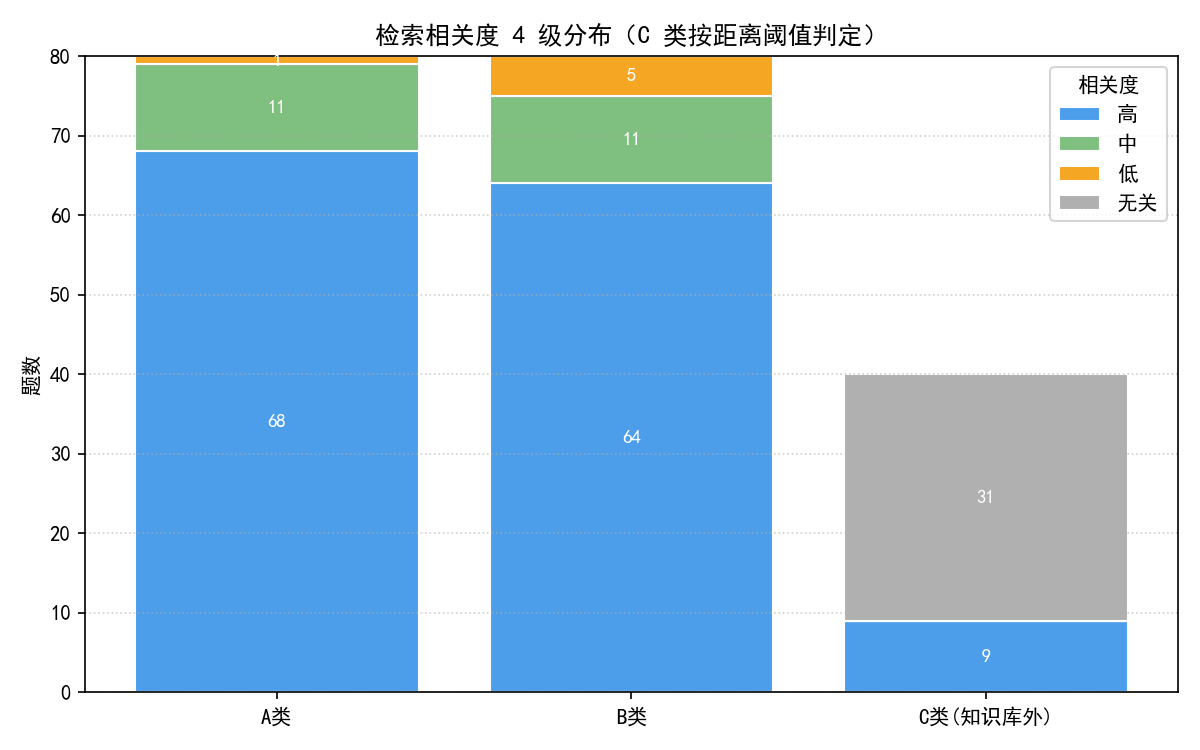
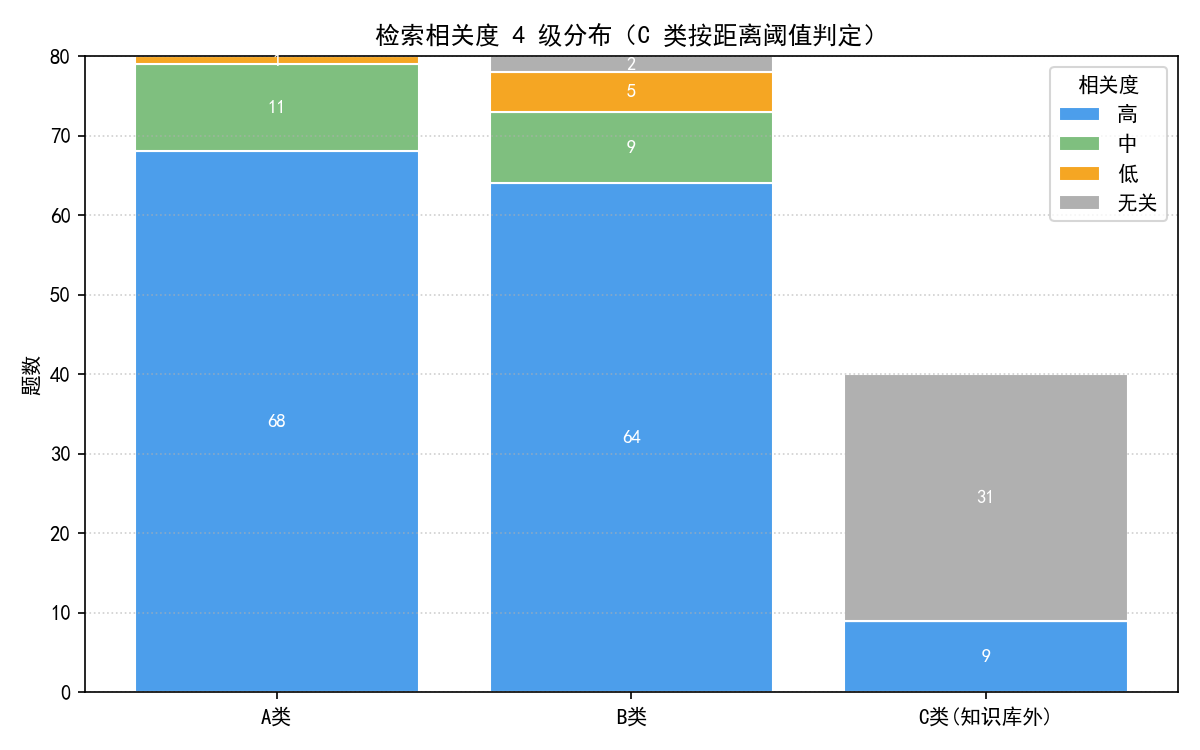
fix(rag): 修复相关度分级将未命中误判为中的逻辑错误
- level() 分支顺序 bug：hit_rank=0（未命中）落入 h<=3 被判为中，导致分布与 Recall@5=98.8% 自相矛盾
- 修复后 A/B 类分布：高 132、中 20、低 6、无关 2（与未命中 2 条一致）
- 同步修复 notebook 中同构的 level()，两处口径一致
- 连带更新：Kappa 0.697→0.705（原值建立在错误分级上），报告/图表/根README/模块README 同步

Changed region(s): [[0.4008, 0.0613, 0.6475, 0.1533]]

diff --git a/rag/analyze_retrieval.py b/rag/analyze_retrieval.py
@@ -155,8 +155,17 @@ def main():
     print("【步骤3】τ=%.4f（A/B 距离 P90）；C 类正确无关 %d/%d=%.0f%%" % (tau, c_ok, len(c), c_rate * 100))
 
     # --- 4 级相关度分布（A/B 类）+ C 类正确性 ---
+    # 注意分支顺序：必须先判 h==0（未命中），否则 0 会落进 h<=3 被误判为"中"
     def level(h):
-        return "高" if h == 1 else ("中" if h <= 3 else ("低" if h <= 5 else "无关"))
+        if h == 0:
+            return "无关"
+        if h == 1:
+            return "高"
+        if h <= 3:
+            return "中"
+        if h <= 5:
+            return "低"
+        return "无关"
     ab["relevance"] = ab["hit_rank"].map(level)
     c["relevance"] = c["top1_distance"].map(lambda d: "无关" if d >= tau else "高")
     order = ["高", "中", "低", "无关"]

diff --git a/README.md b/README.md
@@ -10,7 +10,7 @@
 | [safety/](safety/README.md) | 内容安全评测 | 风险题合规率 | **90%（45/50）** | 50 条风险 prompt（5 类 × 10） |
 | [safety/](safety/README.md) | 内容安全评测 | 对照组误拒率 | **0%（0/10）** | 10 条正常提问 |
 | [rag/](rag/README.md) | 检索召回质量 | Recall@5（总体） | **98.8%** | 200 条评估集（应命中 160 条） |
-| [rag/](rag/README.md) | 检索召回质量 | Cohen's Kappa（规则判定 vs 复标） | 0.697（复标列为模拟演示数据，方法见模块 README） | 50 条 |
+| [rag/](rag/README.md) | 检索召回质量 | Cohen's Kappa（规则判定 vs 复标） | 0.705（复标列为模拟演示数据，方法见模块 README） | 50 条 |
 | [dataset/](dataset/README.md) | 评测数据集质控 | 招聘问答问题集 | 220 条 / 4 类意图 / 边界样本 20 条 | 220 条 |
 | [ab/](ab/README.md) | 双模型 A/B 对比 | 30 题 × 2 模型题集与评测链路就绪 | 真实结果待本机装 Ollama 后运行生成 | 30 题 × 2 |
 | [prompts/](prompts/README.md) | Prompt 迭代复测 | 4 版模板 × 20 任务评测链路就绪 | 真实结果待有效 API Key 重跑生成 | 80 次调用 |

diff --git a/rag/reports/rag_eval_report.md b/rag/reports/rag_eval_report.md
@@ -18,9 +18,9 @@
 | Recall@3 | 95.0% | 98.8% | 91.2% |
 | Recall@5 | 98.8% | 100.0% | 97.5% |
 | 正确无关/应拒答率(C类) | — | — | 78% (31/40) |
-| Cohen's Kappa(模拟复标) | 0.697 | | |
+| Cohen's Kappa(模拟复标) | 0.705 | | |
 
-相关度 4 级分布（A/B 类）：高 132、中 22、低 6、无关 0；C 类正确无关 31、误返回内容 9。
+相关度 4 级分布（A/B 类）：高 132、中 20、低 6、无关 2；C 类正确无关 31、误返回内容 9。
 
 ## 三、召回错误与归因
 
